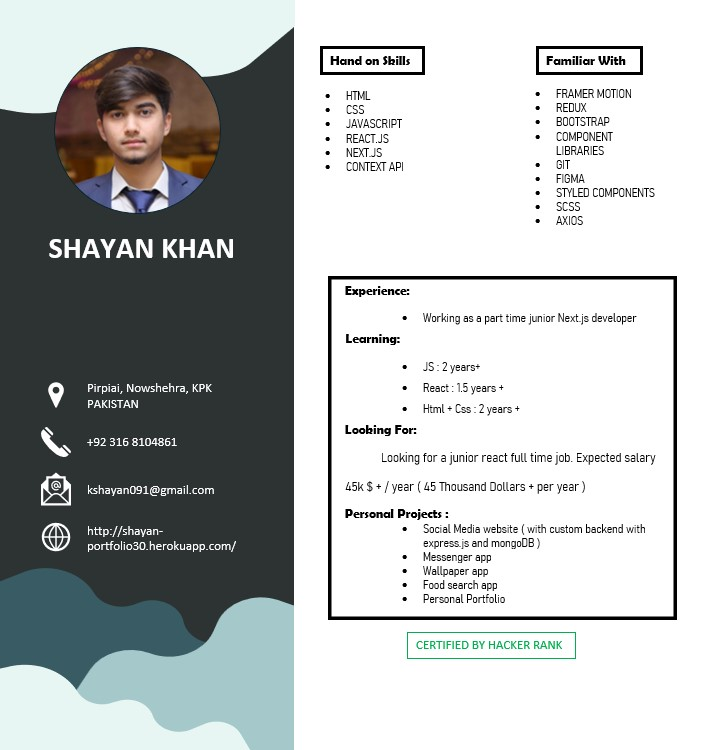
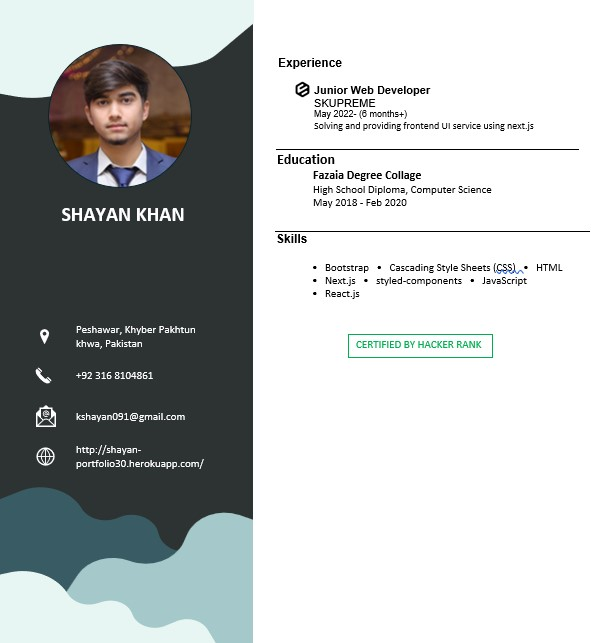
A change

diff --git a/components/fourthSlide.jsx b/components/fourthSlide.jsx
@@ -27,7 +27,7 @@ const DetailsContainer = () =>{
       }
     return (
         <div className={style.detailsContainer}>
-            <div className={style.details} ><a className={style.detailsA} >I AM</a> <p className={style.detailsP} >I am from Pakistan . Getting my Computer Science Bachelor degree from City University of Science and Technology of Peshawar</p> </div>
+            <div className={style.details} ><a className={style.detailsA} >I AM</a> <p className={style.detailsP} >I am from Pakistan . Providing services of the market current most demanding Front End technology Next.js / React.js</p> </div>
             <div className={style.details} ><p className={style.detailsP} >I am looking for remote based React Job and would love to put my efforts in contributing in a company. I am comfortable in working in almost all work schedules .</p><a className={style.detailsA} >LOOKING FOR</a></div>
             <div className={style.button}>
                 <Button dark icon={certify} fun={goToResume} >RESUME</Button>

diff --git a/pages/resume.jsx b/pages/resume.jsx
@@ -7,12 +7,12 @@ import Mobile from '../elements/Mobile'
 import Button from '../elements/button'
 import download from '../public/icons/download.svg'
 import cv from '../public/cv.jpg'
-import shayan from '../public/shayan2.jpg'
+import shayan from '../public/shayan2.jpeg'
 import Sign from '../public/sign'
 import Head from "next/head";
 import Menu from '../components/menu'
 
-const cvLink = "https://docs.google.com/document/d/1o5Ez78Z7w39cZ2mDgLCFGKUZ6bz8HuYY/edit?usp=sharing&ouid=101156306051286708216&rtpof=true&sd=true"
+const cvLink = "https://docs.google.com/document/d/10tntZQ5PIt54Qikpvht0tLixE9nouJvW/edit?usp=sharing&ouid=101156306051286708216&rtpof=true&sd=true"
 
 function Resume() {
 

diff --git a/components/firstSlide.jsx b/components/firstSlide.jsx
@@ -35,9 +35,9 @@ function FirstSlide() {
             <div className={`${style.largeFont} ${style.experience}`}>
             <span>Learning</span>
             <div className={style.experienceComponents} >
-              <ExperienceComponent name="Javascript" years="2" />
-              <ExperienceComponent name="HTML + CSS" years="2" />  
-              <ExperienceComponent name="React.js" years="1.5" />  
+              <ExperienceComponent name="Javascript" years="2.5" />
+              <ExperienceComponent name="HTML + CSS" years="2.5" />  
+              <ExperienceComponent name="React.js" years="2" />  
             </div>
             </div>
           </div>
